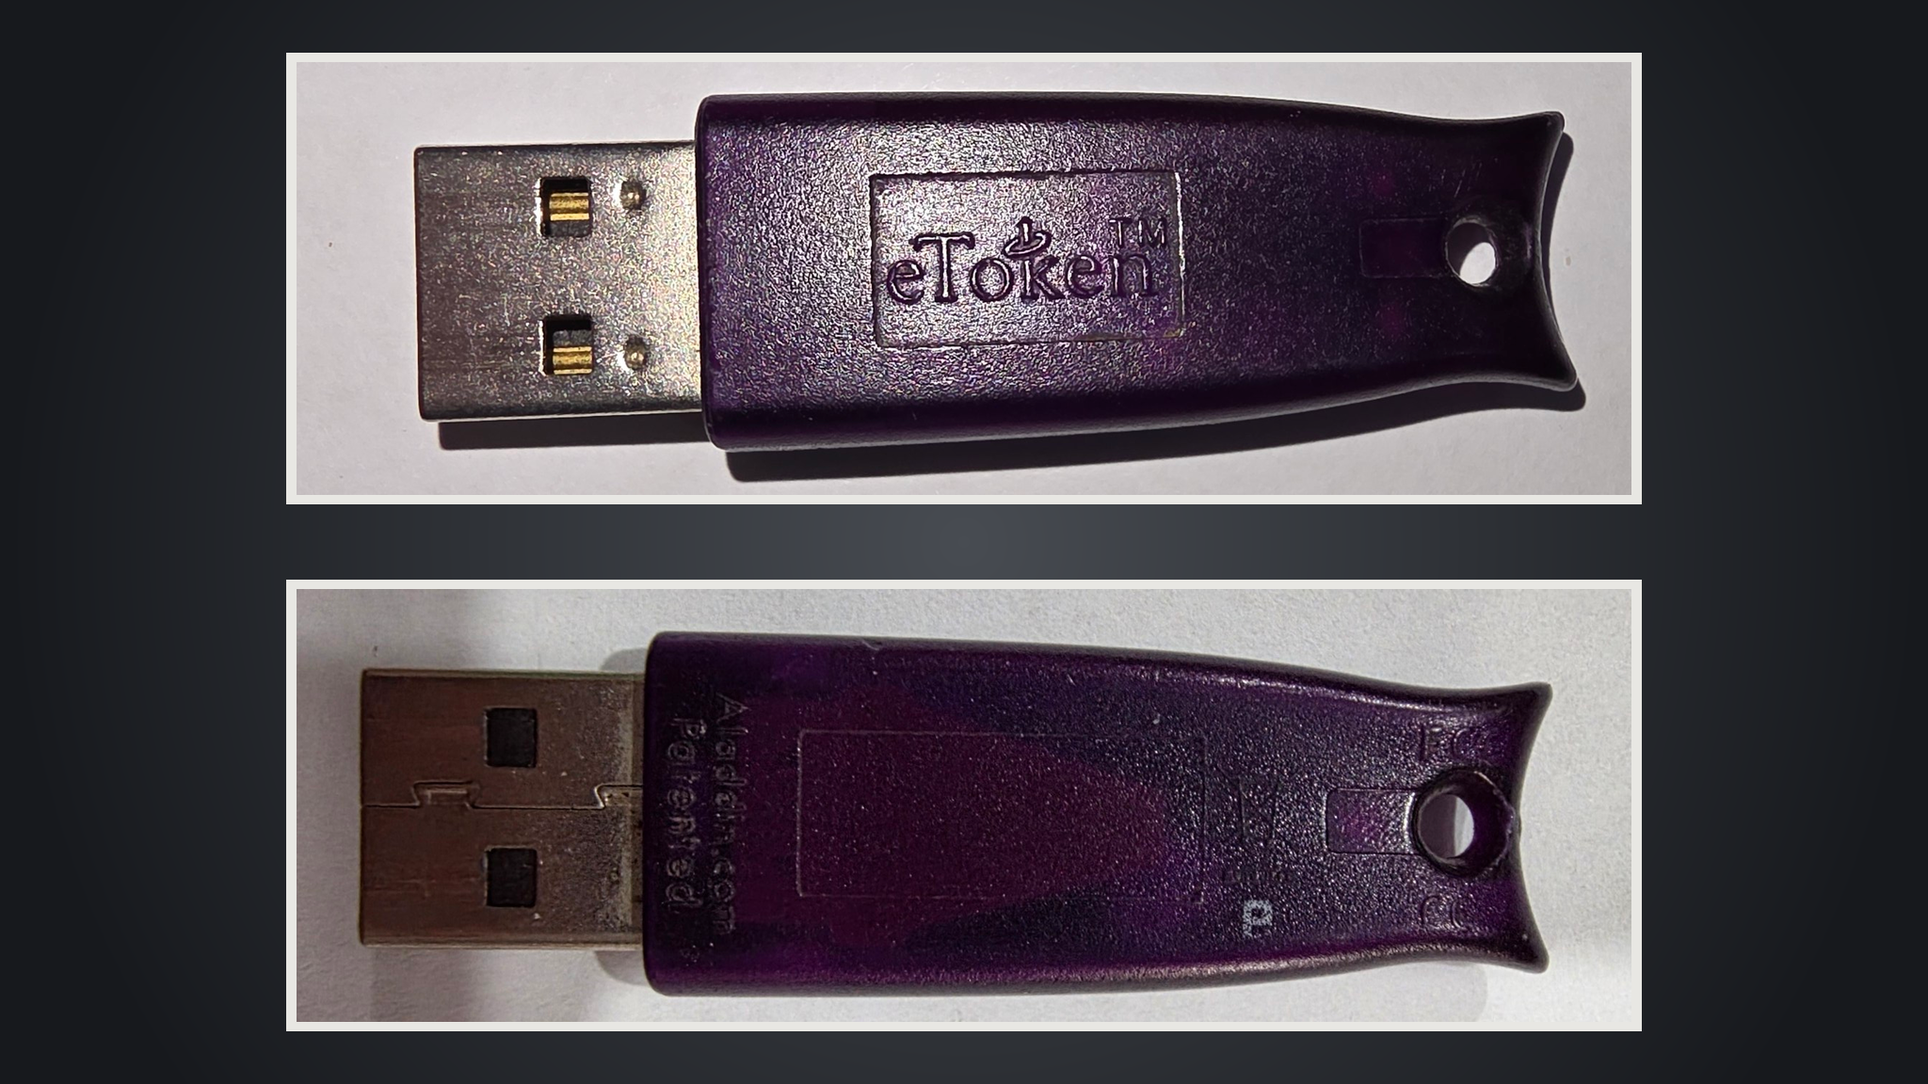
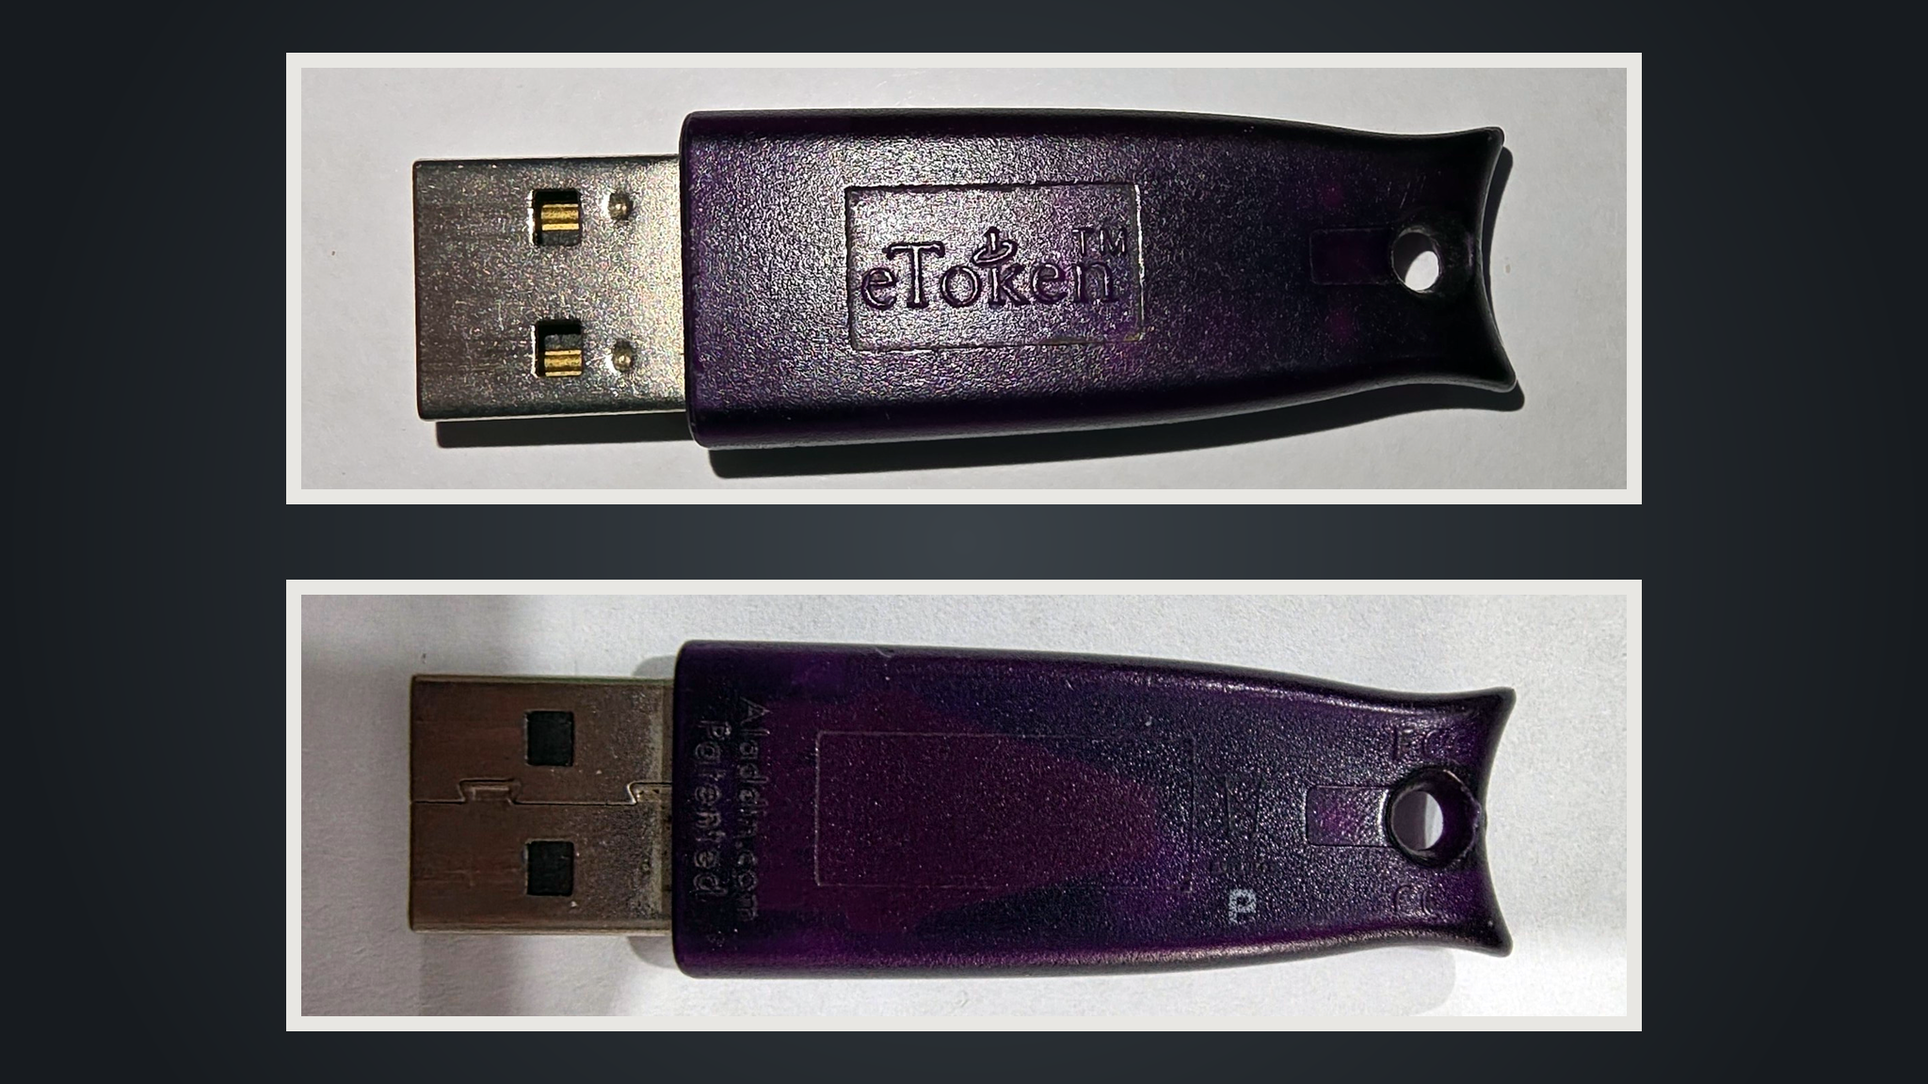
docs: add canonical USB token photo series

Changed region(s): [[0.1562, 0.5312, 0.8438, 0.9688], [0.1562, 0.0312, 0.8438, 0.4688], [0.1562, 0.0312, 0.25, 0.0625]]

diff --git a/docs/token-photo-series.md b/docs/token-photo-series.md
@@ -1,0 +1,133 @@
+# Каноническая фотосерия физических USB-токенов
+
+Срез от 27.08.2026 объединяет девять точно идентифицированных физических
+экземпляров: существующий eToken PRO и восемь новых моделей. Два оригинала в
+каждом каталоге остаются доказательными файлами, а `studio`-кадр служит только
+для навигации и визуального сравнения. Модельная идентификация и аппаратные
+признаки приведены в [рыночной и лабораторной матрице](token-market.md).
+
+## Галерея
+
+| eToken PRO | ESMART Token | ESMART Token USB 64K |
+|---|---|---|
+| [![eToken PRO](images/etoken-pro/etoken-pro-front-rear-studio.png)](images/etoken-pro/etoken-pro-front-rear-studio.png) | [![ESMART Token](images/esmart-token/esmart-token-front-rear-studio.png)](images/esmart-token/esmart-token-front-rear-studio.png) | [![ESMART Token USB 64K](images/esmart-token-usb64k/esmart-token-usb64k-front-rear-studio.png)](images/esmart-token-usb64k/esmart-token-usb64k-front-rear-studio.png) |
+| JaCarta LT | JaCarta LT Nano | Рутокен ЭЦП 2.0 |
+| [![JaCarta LT](images/jacarta-lt/jacarta-lt-front-rear-studio.png)](images/jacarta-lt/jacarta-lt-front-rear-studio.png) | [![JaCarta LT Nano](images/jacarta-lt-nano/jacarta-lt-nano-front-rear-studio.png)](images/jacarta-lt-nano/jacarta-lt-nano-front-rear-studio.png) | [![Рутокен ЭЦП 2.0](images/rutoken-ecp-2/rutoken-ecp-2-front-rear-studio.png)](images/rutoken-ecp-2/rutoken-ecp-2-front-rear-studio.png) |
+| Рутокен ЭЦП 3.0 | Рутокен Lite | Рутокен S |
+| [![Рутокен ЭЦП 3.0](images/rutoken-ecp-3/rutoken-ecp-3-front-rear-studio.png)](images/rutoken-ecp-3/rutoken-ecp-3-front-rear-studio.png) | [![Рутокен Lite](images/rutoken-lite/rutoken-lite-front-rear-studio.png)](images/rutoken-lite/rutoken-lite-front-rear-studio.png) | [![Рутокен S](images/rutoken-s/rutoken-s-front-rear-studio.png)](images/rutoken-s/rutoken-s-front-rear-studio.png) |
+
+## Воспроизводимая обработка
+
+Канонические кадры собирает
+[`build/token-photo-series.ps1`](../build/token-photo-series.ps1):
+
+```powershell
+pwsh build/token-photo-series.ps1
+```
+
+Для выборочной пересборки доступен параметр `-Model <slug>`. Проверенная среда —
+ImageMagick `7.1.2-27 Q16-HDRI x64`.
+
+- каждый ракурс берётся прямо из соответствующего `*-original.jpg/png`;
+- разрешены только явно записанные в скрипте повороты на `0°`, `90°` или `180°`,
+  crop, масштабирование и компоновка; отражение, маска, генеративная дорисовка и
+  локальная ретушь не используются;
+- все crop-окна имеют соотношение `22:7`, поэтому перевод в `1408×448` через
+  Lanczos не меняет пропорции устройства;
+- одинаковая контрастная нормализация каждого ракурса выполняется в `sRGB`
+  командой ImageMagick `-channel RGB -contrast-stretch 0.20%x0.20% +channel`;
+  она отбрасывает только по `0,20%` крайних тонов с каждой стороны гистограммы и
+  не применяет локальную коррекцию к надписям или дефектам;
+- внутренний кадр `1408×448` получает рамку `16 px`; две панели `1440×480`
+  размещаются в точках `304,56` и `304,616` на едином графитовом холсте
+  `2048×1152`;
+- PNG очищаются от метаданных и сохраняются как 8-битный `sRGB` RGB.
+
+Два последовательных полных запуска на одной проверенной версии ImageMagick дали
+одинаковые SHA-256 всех девяти `studio`-файлов.
+
+## Размеры и SHA-256
+
+### eToken PRO
+
+| Файл | Размер | Байты | SHA-256 |
+|---|---:|---:|---|
[3 lines of base64/hex data omitted]
+
+### ESMART Token
+
+| Файл | Размер | Байты | SHA-256 |
+|---|---:|---:|---|
[3 lines of base64/hex data omitted]
+
+### ESMART Token USB 64K
+
+| Файл | Размер | Байты | SHA-256 |
+|---|---:|---:|---|
[3 lines of base64/hex data omitted]
+
+### JaCarta LT
+
+| Файл | Размер | Байты | SHA-256 |
+|---|---:|---:|---|
[3 lines of base64/hex data omitted]
+
+### JaCarta LT Nano
+
+| Файл | Размер | Байты | SHA-256 |
+|---|---:|---:|---|
[3 lines of base64/hex data omitted]
+
+### Рутокен ЭЦП 2.0
+
+| Файл | Размер | Байты | SHA-256 |
+|---|---:|---:|---|
[3 lines of base64/hex data omitted]
+
+### Рутокен ЭЦП 3.0
+
+| Файл | Размер | Байты | SHA-256 |
+|---|---:|---:|---|
[3 lines of base64/hex data omitted]
+
+### Рутокен Lite
+
+| Файл | Размер | Байты | SHA-256 |
+|---|---:|---:|---|
[3 lines of base64/hex data omitted]
+
+### Рутокен S
+
+| Файл | Размер | Байты | SHA-256 |
+|---|---:|---:|---|
[3 lines of base64/hex data omitted]
+
+## Проверки приёмки
+
+- в каждом из девяти модельных каталогов ровно три файла;
+- 16 новых оригиналов побайтово совпадают с локальными raw-источниками по
+  SHA-256; два оригинала eToken PRO также не изменены;
+- все девять `studio`-кадров имеют `2048×1152`, лицевую сторону сверху,
+  обратную снизу и USB-штекер слева;
+- каждый итоговый кадр сверялся с оригиналами на полном размере; надписи,
+  контакты, отверстия, царапины и геометрия сохранены;
+- серийная маркировка Рутокен ЭЦП 3.0 остаётся только внутри доказательной
+  фотографии и не переносится в текст.

diff --git a/docs/token-market.md b/docs/token-market.md
@@ -24,7 +24,7 @@ E2E от неэкспортируемого контейнера на токен
 | **Рутокен S** | был доступен в сеансе 27.08.2026 (`VID_0A89/PID_0020`) | **полностью (+)** | Production APDU: 6 файлов, обе пары `…98 → …9C`, HDIMAGE и PFX; носитель использован только как control | — |
 | Рутокен ЭЦП 1.0 | **заказан владельцем, ожидается доставка**; живого теста ещё не было | **нет** | Ожидается аппаратная неизвлекаемость, но прямого опыта нет | Не считать покрытым до физической идентификации и E2E |
 | **Рутокен Lite** | был доступен в сеансе 27.08.2026 (`VID_0A89/PID_0025`) | **полностью (+)** | fw 8.0/9.02: полный двухключевой E2E до двух PFX, `d·G==Q`; носитель использован только как control | — |
-| **Рутокен ЭЦП / профиль 2.x, fw 23.02** | был доступен в сеансе 27.08.2026 (`VID_0A89/PID_0030`) | **полностью (−)** | 46 механизмов; data/certificate CRUD, hardware RSA-2048 sign/verify; `CKA_NEVER_EXTRACTABLE=true`, `CKA_VALUE` unreadable, wrap → `CKR_KEY_NOT_WRAPPABLE`; cleanup → 0 объектов | Резервная копия аппаратного private key невозможна по конструкции |
+| **Рутокен ЭЦП 2.0 / профиль 2.x, fw 23.02** | был доступен в сеансе 27.08.2026 (`VID_0A89/PID_0030`) | **полностью (−)** | Версия `2.0` подтверждена маркировкой корпуса; 46 механизмов; data/certificate CRUD, hardware RSA-2048 sign/verify; `CKA_NEVER_EXTRACTABLE=true`, `CKA_VALUE` unreadable, wrap → `CKR_KEY_NOT_WRAPPABLE`; cleanup → 0 объектов | Резервная копия аппаратного private key невозможна по конструкции |
 | **Рутокен ЭЦП 3.0** | был доступен ранее | **полностью (−)** | CSP/PKCS#11/keycopy/wrap подтвердили: аппаратный ключ не покидает чип | —, резервная копия закрытого ключа невозможна по конструкции |
 | **eToken PRO (Java), профиль PRO** | был доступен в сеансе 27.08.2026 (`VID_0529/PID_0620`) | **полностью (+)** | Корпус `eToken PRO`, PKCS#11 `Aladdin R.D.` / `PRO`; exact selector ограничил protected read одним синтетическим контейнером; production APDU → 6 файлов → обе пары `…98 → …9C` → две HDIMAGE-копии → два PFX | Backend называется `JaCartaProApdu`, но это имя совместимого PRO-апплета, а не корпуса; [фото и точные признаки](apdu/jacarta-pro.md#внешний-вид-и-эталонные-фотографии) |
 | **JaCarta LT** (`JaCarta DS`) | была доступна ранее | **полностью (+)** | Два независимых прогона: 6 файлов, обе пары `…98 → …9C`, HDIMAGE и PFX | — |
@@ -37,6 +37,25 @@ E2E от неэкспортируемого контейнера на токен
 Итого: **12 модельных строк** — 6 полностью положительных, 3 полностью отрицательных,
 0 частичных и 3 без физического теста. Четыре точных носителя были доступны в
 сеансе 27.08.2026; фактическую текущую вставку нужно каждый раз проверять live.
+
+## Каноническая фотосерия физических экземпляров
+
+[Единая галерея, метод обработки и SHA-256 всех 27 файлов](token-photo-series.md)
+фиксируют девять проверенных физических экземпляров на 27.08.2026. Фотография
+подтверждает только видимую маркировку и корпус; точную аппаратную модель закрывают
+согласованные USB/reader/model-признаки либо отдельный физический протокол.
+
+| Экземпляр | Подтверждение модели | Канонический вид |
+|---|---|---|
+| **eToken PRO (Java), профиль PRO** | `VID_0529/PID_0620`, PKCS#11 `Aladdin R.D.` / `PRO`, маркировка корпуса | [лицевая и обратная стороны](images/etoken-pro/etoken-pro-front-rear-studio.png) |
+| **ESMART Token** | `VID_2CE4/PID_7479`, reader `ISBC ESMART Token 0`, семейство `ESMART`, fw `2.0` | [лицевая и обратная стороны](images/esmart-token/esmart-token-front-rear-studio.png) |
+| **ESMART Token USB 64K** (`EST64U-B1`) | точная заводская наклейка; проверенный экземпляр `VID_072F/PID_90DE` | [лицевая и обратная стороны](images/esmart-token-usb64k/esmart-token-usb64k-front-rear-studio.png) |
+| **JaCarta LT** | заводское тиснение `JaCarta LT` и отдельный физический E2E | [лицевая и обратная стороны](images/jacarta-lt/jacarta-lt-front-rear-studio.png) |
+| **JaCarta LT Nano** | `VID_24DC/PID_0102`, reader `ARDS ZAO JaCarta LT 0`, модель `JaCarta LT`, fw `2.0`; компактное исполнение Nano | [лицевая и обратная стороны](images/jacarta-lt-nano/jacarta-lt-nano-front-rear-studio.png) |
+| **Рутокен ЭЦП 2.0** | маркировка `Рутокен ЭЦП 2.0`; `VID_0A89/PID_0030`, reader `Aktiv Rutoken ECP 0`, fw `23.02`, hardware `20.05`, профиль 2.x | [лицевая и обратная стороны](images/rutoken-ecp-2/rutoken-ecp-2-front-rear-studio.png) |
+| **Рутокен ЭЦП 3.0** | заводская маркировка `Рутокен ЭЦП 3.0`; серийный номер оставлен только на фотографии | [лицевая и обратная стороны](images/rutoken-ecp-3/rutoken-ecp-3-front-rear-studio.png) |
+| **Рутокен Lite** | `VID_0A89/PID_0025`, reader `Aktiv Rutoken lite 0`, модель `Rutoken lite`, fw `8.0` | [лицевая и обратная стороны](images/rutoken-lite/rutoken-lite-front-rear-studio.png) |
+| **Рутокен S** | PnP `Rutoken S`, `VID_0A89/PID_0020`, reader `Aktiv Co. ruToken 0`, fw `36.0` | [лицевая и обратная стороны](images/rutoken-s/rutoken-s-front-rear-studio.png) |
 
 ## Что доказано физически
 

diff --git a/docs/apdu/jacarta-pro.md b/docs/apdu/jacarta-pro.md
@@ -44,13 +44,14 @@ PRO APDU и не подставляет заводской PIN.
 лицевая сторона сверху, обратная снизу, оба штекера слева. Сам токен не
 перерисовывался: использованы поворот, одинаковая обрезка и масштабирование исходных
 пикселей на нейтральном фоне. Полный порядок обработки закреплён в
-[runbook фотоколлажа](../runbooks/token-photo-collage.md).
+[runbook фотоколлажа](../runbooks/token-photo-collage.md), а параметры общей
+контрастной нормализации и хэши — в [протоколе серии](../token-photo-series.md).
 
 | Ракурс | Отличительные признаки | Доказательный файл | SHA-256 |
 |---|---|---|---|
[4 lines of base64/hex data omitted]
 
 Один корпус не доказывает электронную модификацию: для точного совпадения по-прежнему
 нужны хотя бы USB ID, ATR и PKCS#11 manufacturer/model. Поэтому найденное на вторичном

diff --git a/docs/runbooks/token-photo-collage.md b/docs/runbooks/token-photo-collage.md
@@ -16,10 +16,13 @@
 Имена файлов для модели со slug `<model>`:
 
 ```text
-docs/images/<model>/<model>-front-original.png
-docs/images/<model>/<model>-rear-original.png
+docs/images/<model>/<model>-front-original.<ext>
+docs/images/<model>/<model>-rear-original.<ext>
 docs/images/<model>/<model>-front-rear-studio.png
 ```
+
+`<ext>` сохраняет фактический формат доказательного оригинала (`jpg` или `png`):
+перекодировать исходник ради расширения нельзя.
 
 ## Шаги
 
